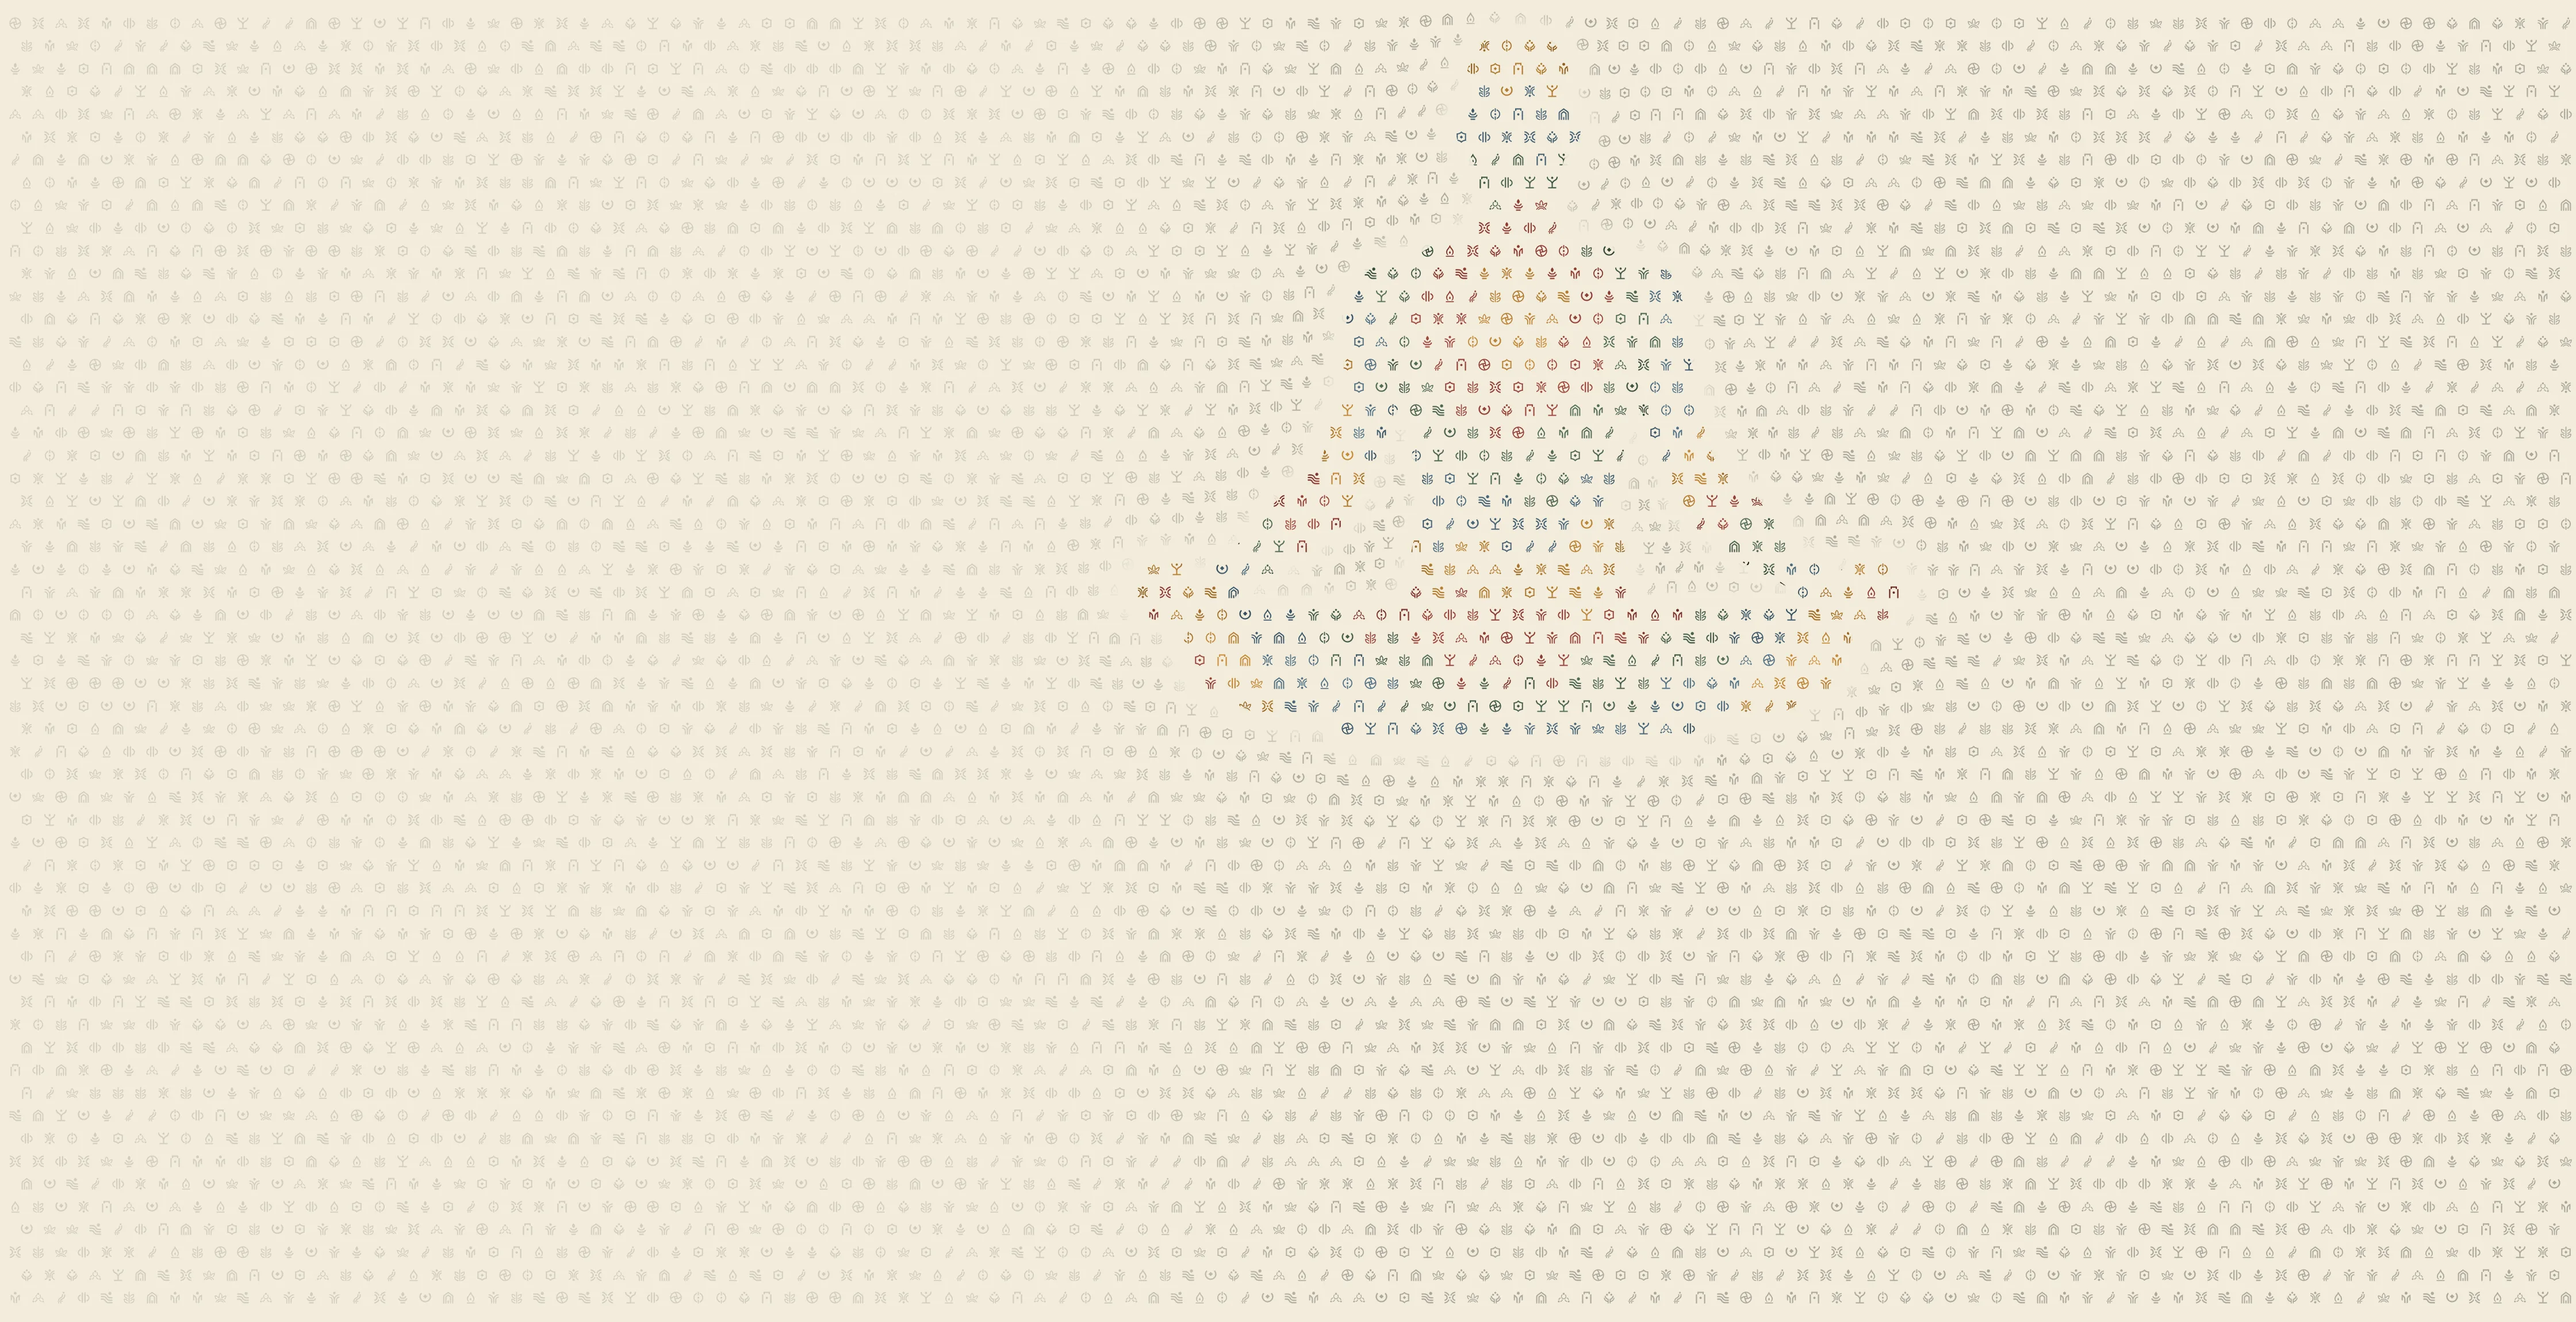
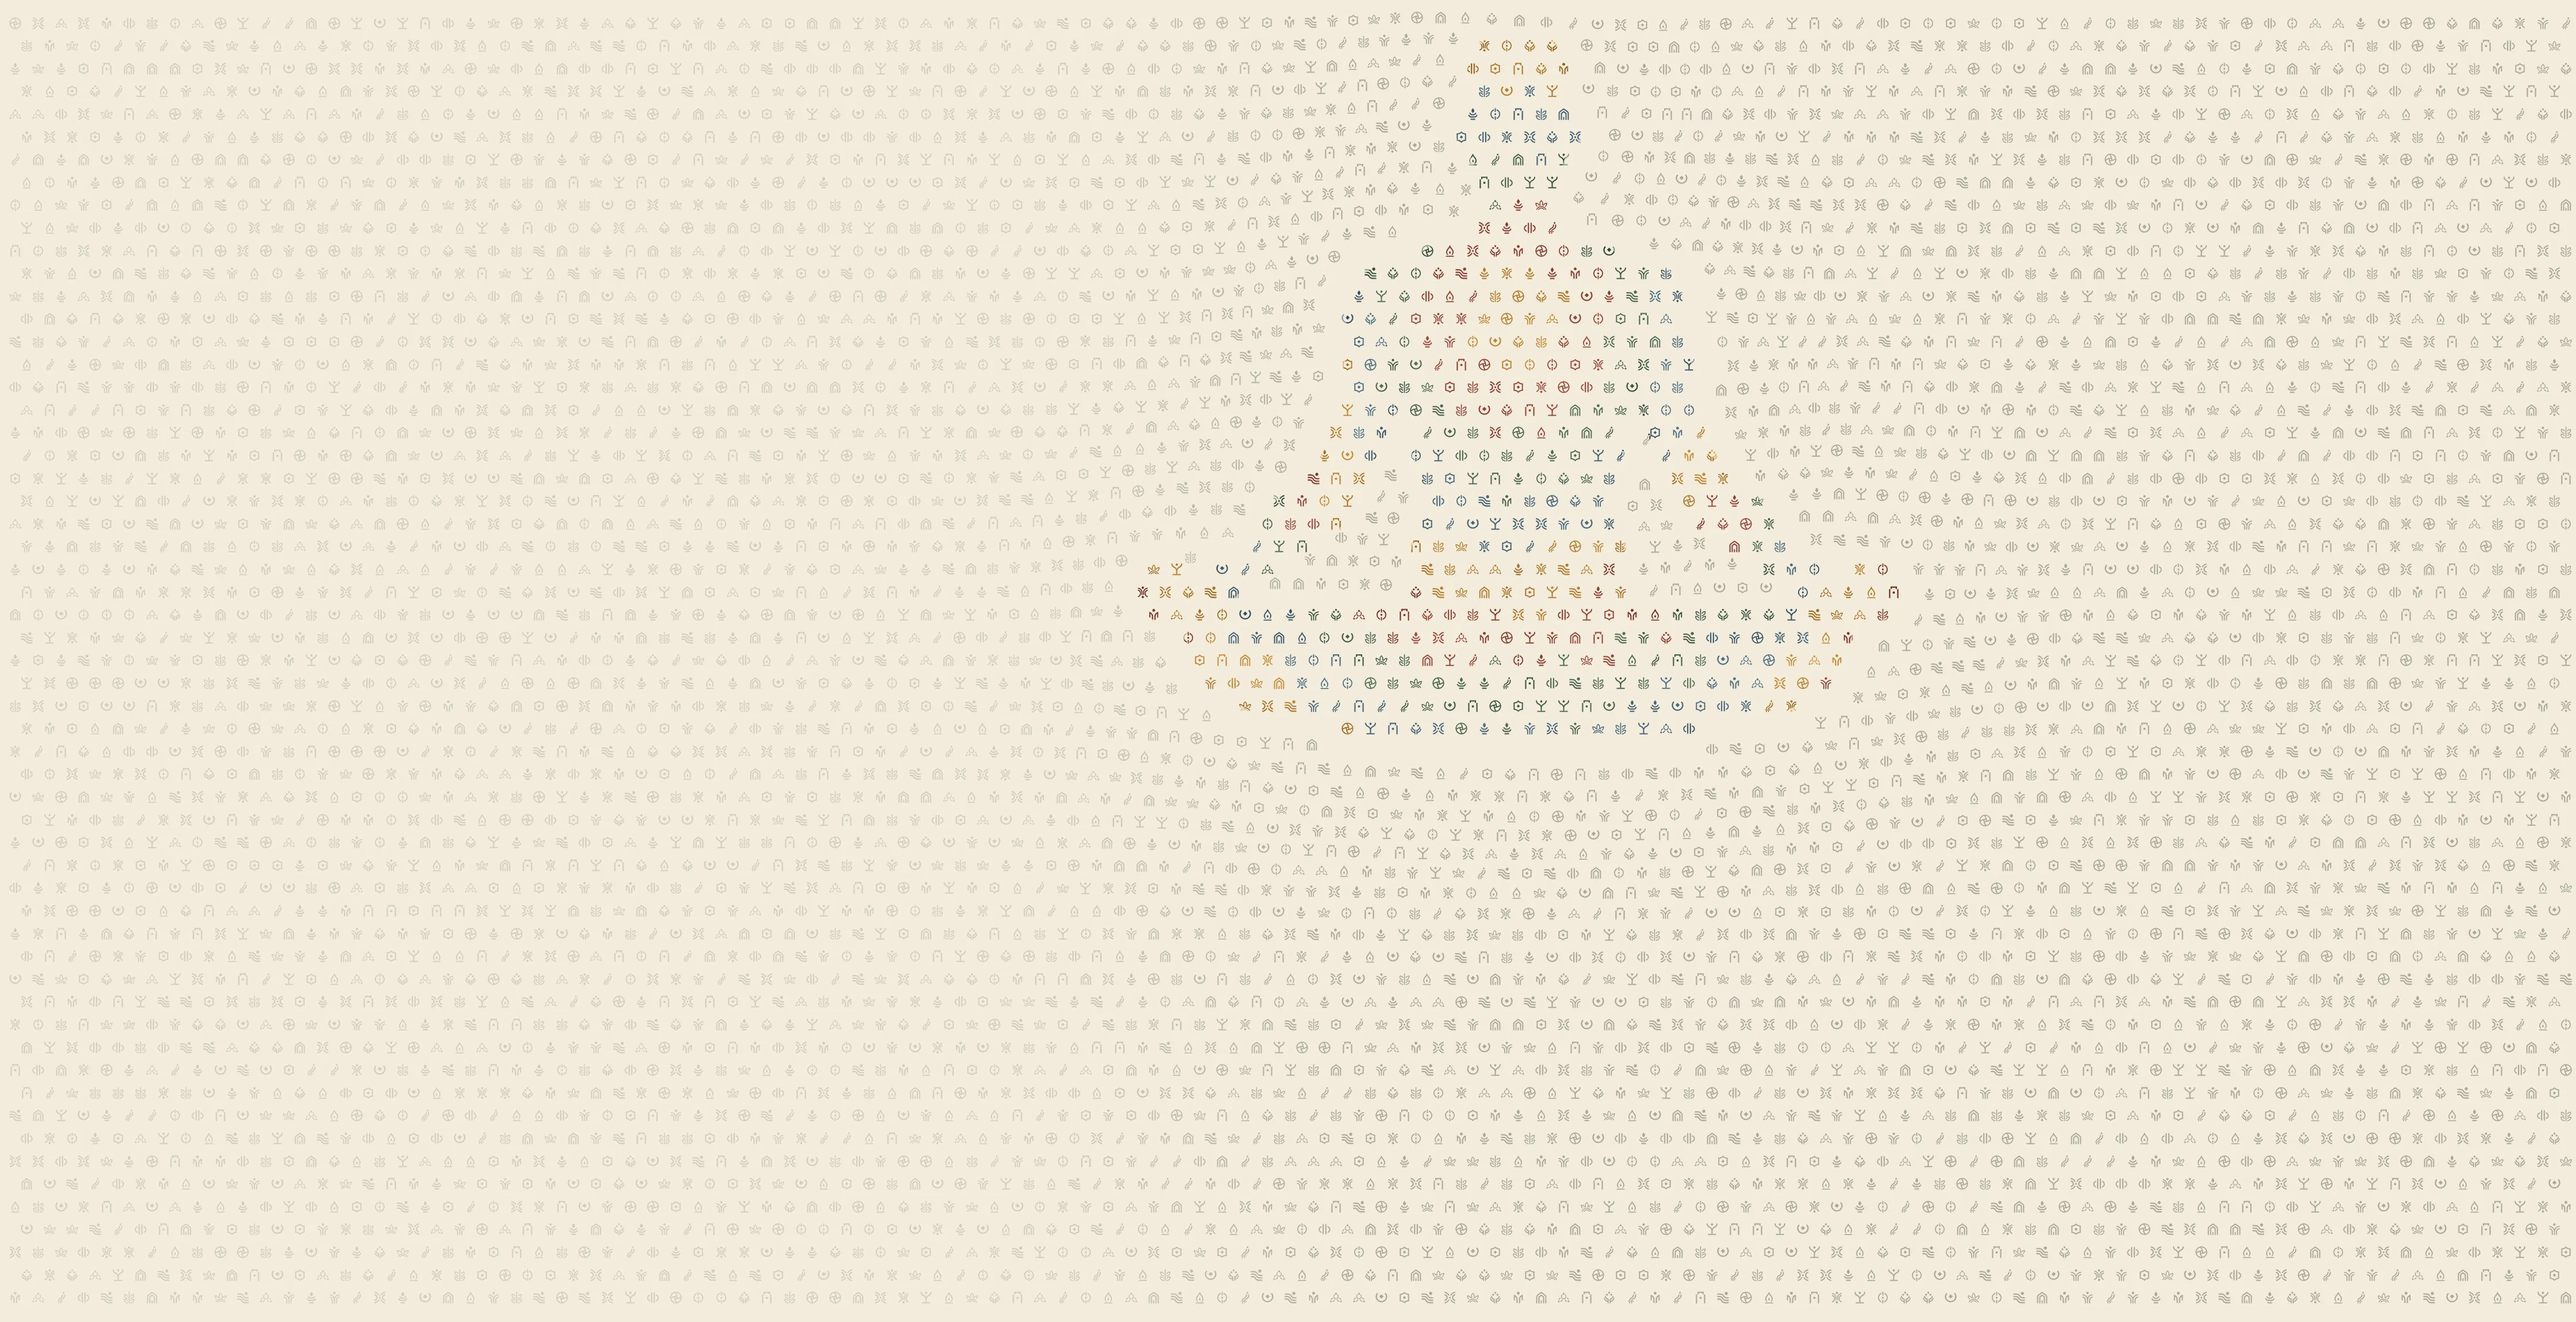
Hero figure: replace the halo with distortion extending out from the figure
Claude-Session: https://claude.ai/code/session_01Faxypstm6H8yAswypDCHBa

diff --git a/scripts/hero-glyph-field.py b/scripts/hero-glyph-field.py
@@ -37,13 +37,13 @@ CROWN=96                  # no clay within this many units of the top of the hea
 SEED=7
 # Warp (Nov 15): the field bends slightly around the figure. Only field glyphs move; the figure's own glyphs stay put,
 # so its shape is exact. Near the outline they are pushed outward with a small twist.
-WARP_SIGMA=34             # how far from the outline the bend reaches (units)
-WARP=8                    # largest push (units)
-WARP_TWIST=0.5            # share of the push turned along the outline
+WARP_SIGMA=70             # how far from the outline the bend reaches (units)
+WARP=20                   # largest push (units)
+WARP_TWIST=0.35           # share of the push turned along the outline
 # Figure clarity (Nov 16): colour only inside the figure (FIELD_COLOUR 0), a quiet halo of lighter glyphs just outside
 # the outline, the figure's shading carried by glyph strength, and the grid centred on the figure's axis.
 HALO=30                   # width of the halo outside the outline (units)
-HALO_MIN=0.12             # field strength at the outline (1 = no halo)
+HALO_MIN=1.0              # field strength at the outline (1 = no halo; Nov 17: off, replaced by the warp)
 SHADE_MIN=0.85            # glyph strength in the figure's lightest shading (0..1)
 SHADE_DARK=0.38           # how far deep shading darkens the figure's colours towards ink
 SHADE_GAMMA=1.1           # contrast of the shading (higher = more modelling)
@@ -93,6 +93,7 @@ for j,y in enumerate(np.arange(-SP,HU+SP,SP)):
             if u>p: continue
             if np.random.random()<ss((t-0.05)/0.45): col=PC[quarter(x)]
         X=P(x+wx+DX)-n//2; Y=P(y+wy)-n//2
+        if (wx or wy) and Mf[min(max(P(y+wy),0),H_-1),min(max(P(x+wx+DX),0),W_-1)]>0.15: continue   # a pushed field glyph never lands on the body
         if X<0 or Y<0 or X+n>W_ or Y+n>H_: continue
         if col:
             Cg[Y:Y+n,X:X+n]+=g[...,None]*np.array(COL[col],np.float32); Cw[Y:Y+n,X:X+n]=np.maximum(Cw[Y:Y+n,X:X+n],g); continue

diff --git a/docs/design/README.md b/docs/design/README.md
@@ -38,10 +38,10 @@ The older references (two bands, U-fold) are kept for history:
     and blue in rings from the heart, with no clay at the crown. The field is lighter behind the copy.
   - From y 578 the field disperses irregularly, never quite emptying, and ends at 1100 above the
     phase boxes (from 1110; the title sits at 960). As the glyphs fall they take the colour of the phase box below them.
-  - Figure clarity (Nov 16): color only inside the figure (`FIELD_COLOUR` 0); a halo of lighter glyphs just outside the
-    outline (`HALO`, `HALO_MIN`); the figure's shading darkens its glyphs toward ink (`SHADE_MIN`, `SHADE_DARK`,
-    `SHADE_GAMMA`); the grid has a column on the figure's center line. Field glyphs (never the figure's) bend slightly
-    around it (`WARP`). Below the figure the field is an even grid (`DISPERSE` False; True restores the old irregular
+  - Figure clarity (Nov 16): color only inside the figure (`FIELD_COLOUR` 0); no halo (Nov 17: `HALO_MIN` 1); the figure's shading darkens its glyphs toward ink (`SHADE_MIN`, `SHADE_DARK`,
+    `SHADE_GAMMA`); the grid has a column on the figure's center line. Field glyphs (never the figure's) bend and sweep
+    outward around it, reaching about 70 units out (`WARP` 20, `WARP_SIGMA` 70, `WARP_TWIST`); a pushed glyph that would
+    land on the body is dropped. Below the figure the field is an even grid (`DISPERSE` False; True restores the old irregular
     dispersal with phase-colored falling glyphs).
   - Fades (desktop, `app/lanes-home.css`): a bone panel behind the copy, solid past the text and then fading in a
     straight line to the right and below; the field's bottom fades out in a straight line before the phases title.

diff --git a/docs/edit-ledger.md b/docs/edit-ledger.md
@@ -695,3 +695,10 @@ commits. Hashes below were backfilled for commits made before the ledger existed
 - Settings are in `scripts/hero-glyph-field.py` (`HALO`, `SHADE_*`, `DISPERSE`) and `app/lanes-home.css`.
 - Provisional: for Dat's review.
 - Why: Dat, Nov 16.
+
+### 2026-11-17 · Hero figure: distortion instead of a halo (`home-04-lanes` only)
+- The halo of lighter glyphs around the figure is gone; the field keeps its full strength right up to the body.
+- In its place, the field distorts around the figure. Background rows bend and sweep outward around its outline, reaching about 70 units out (pushes up to 20 units, with a slight twist).
+- Only background glyphs move. The figure's own glyphs keep their places and size, so its shape doesn't change. Any background glyph that would be pushed onto the body is dropped, so nothing overlaps it.
+- Settings: `HALO_MIN` 1 (off), `WARP` 20, `WARP_SIGMA` 70, `WARP_TWIST` 0.35 in `scripts/hero-glyph-field.py`.
+- Why: Dat, Nov 17 ("i don't like the halo, can it be distortion extending out from the figure instead?").
